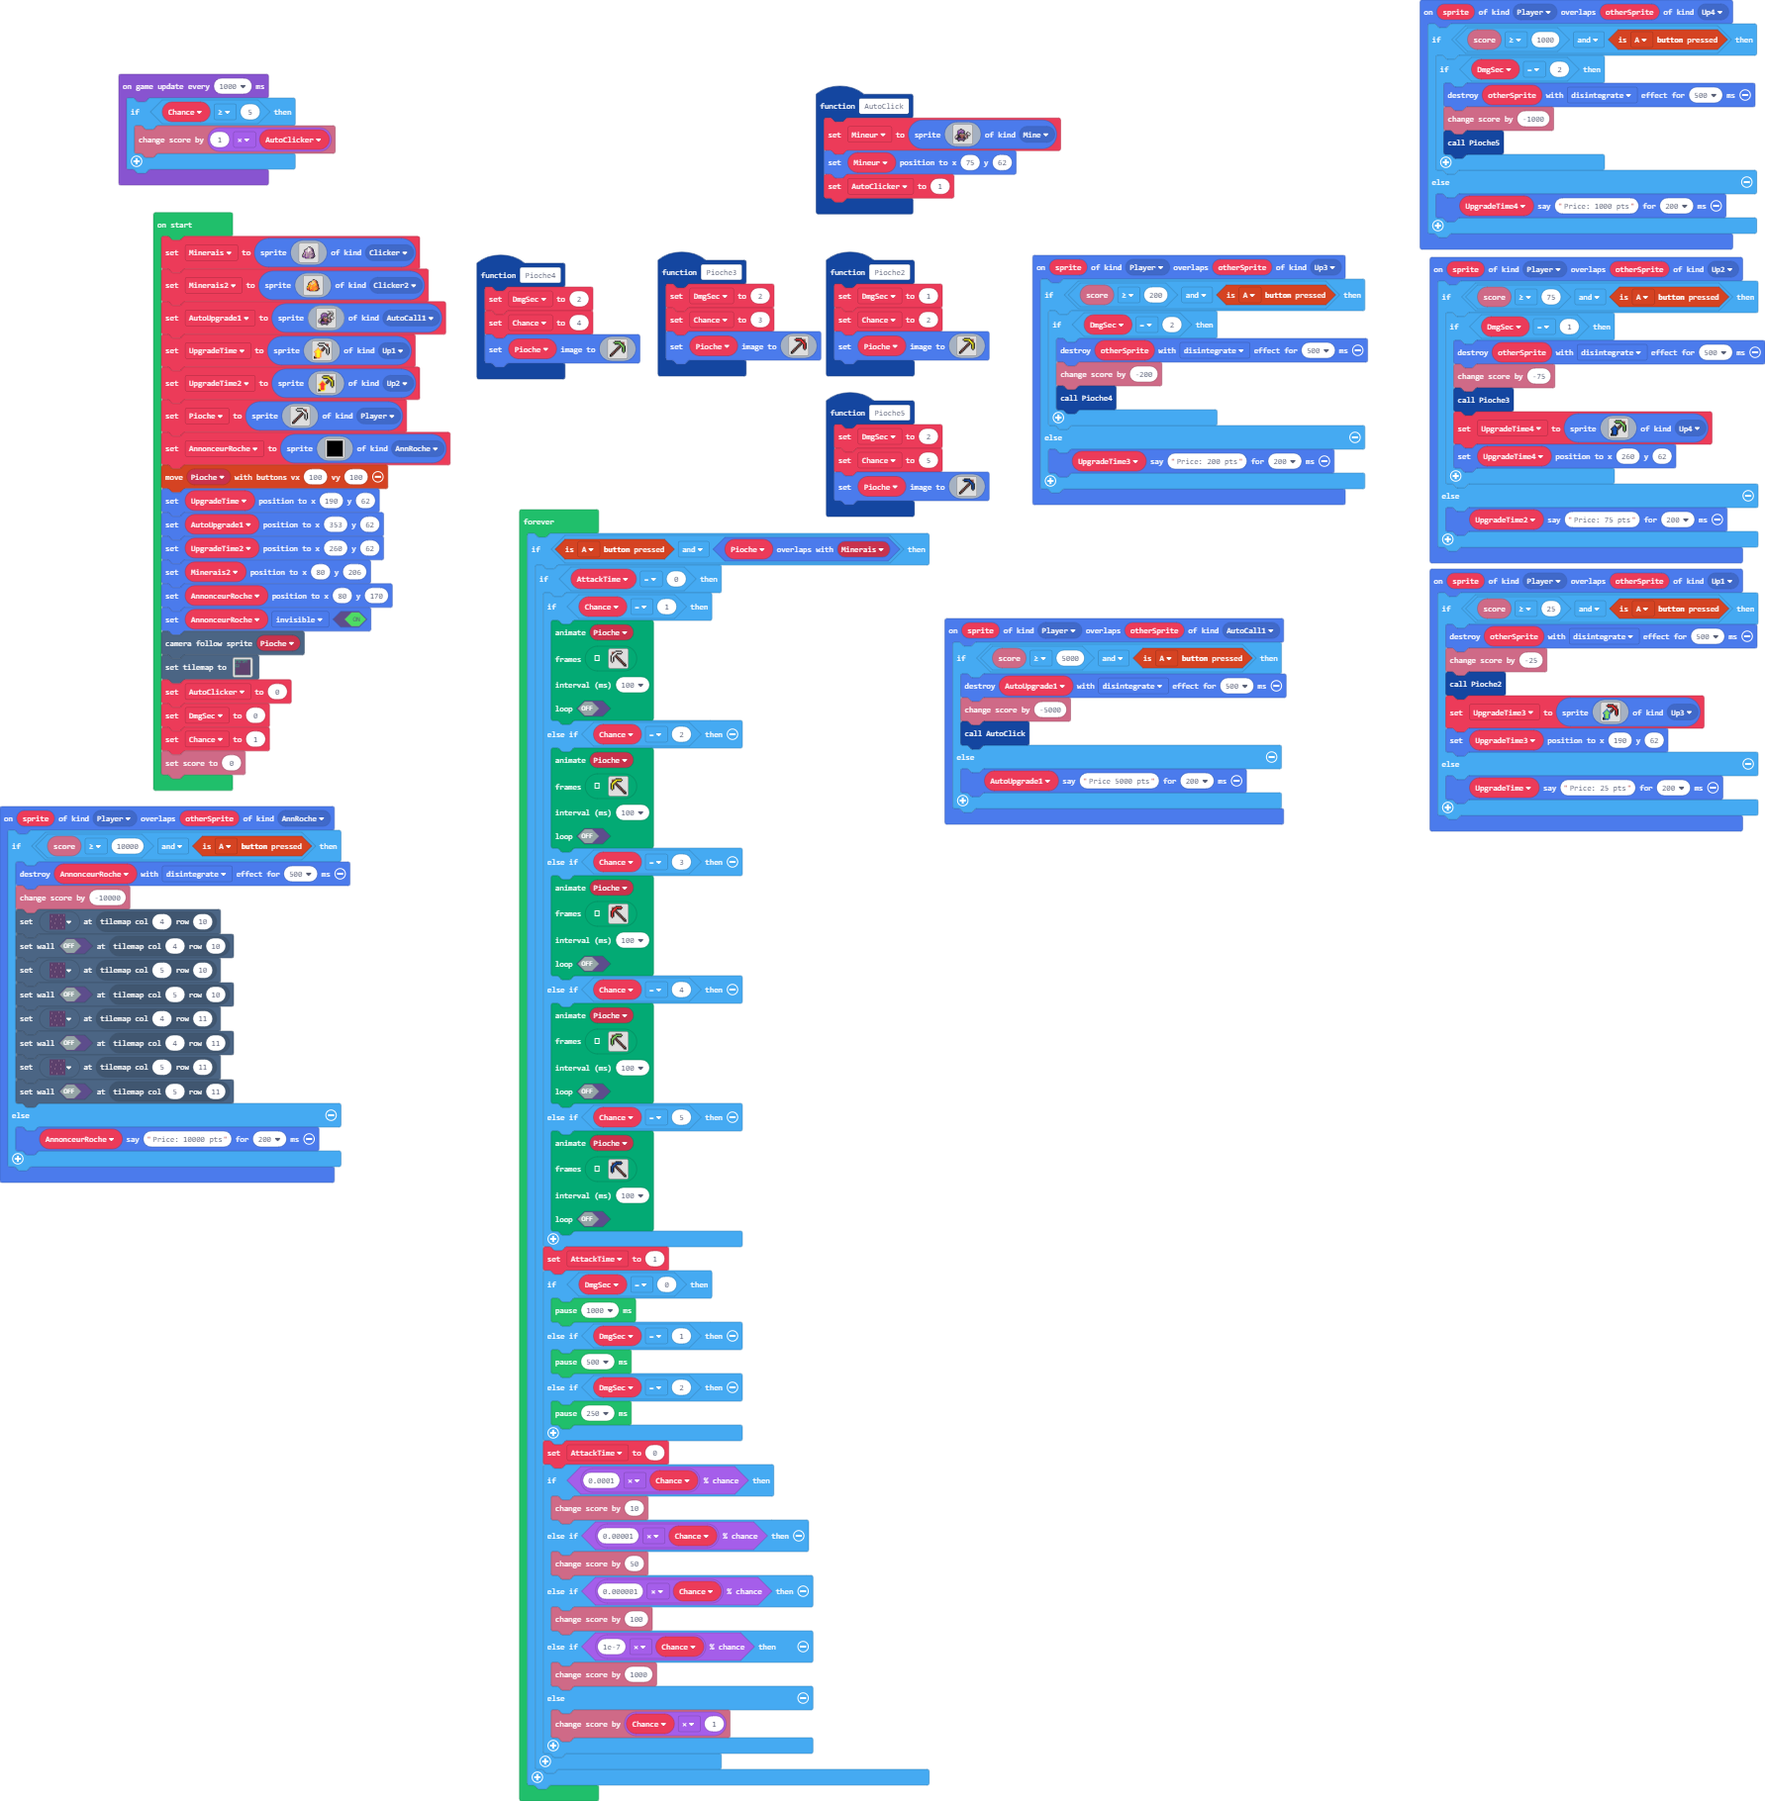
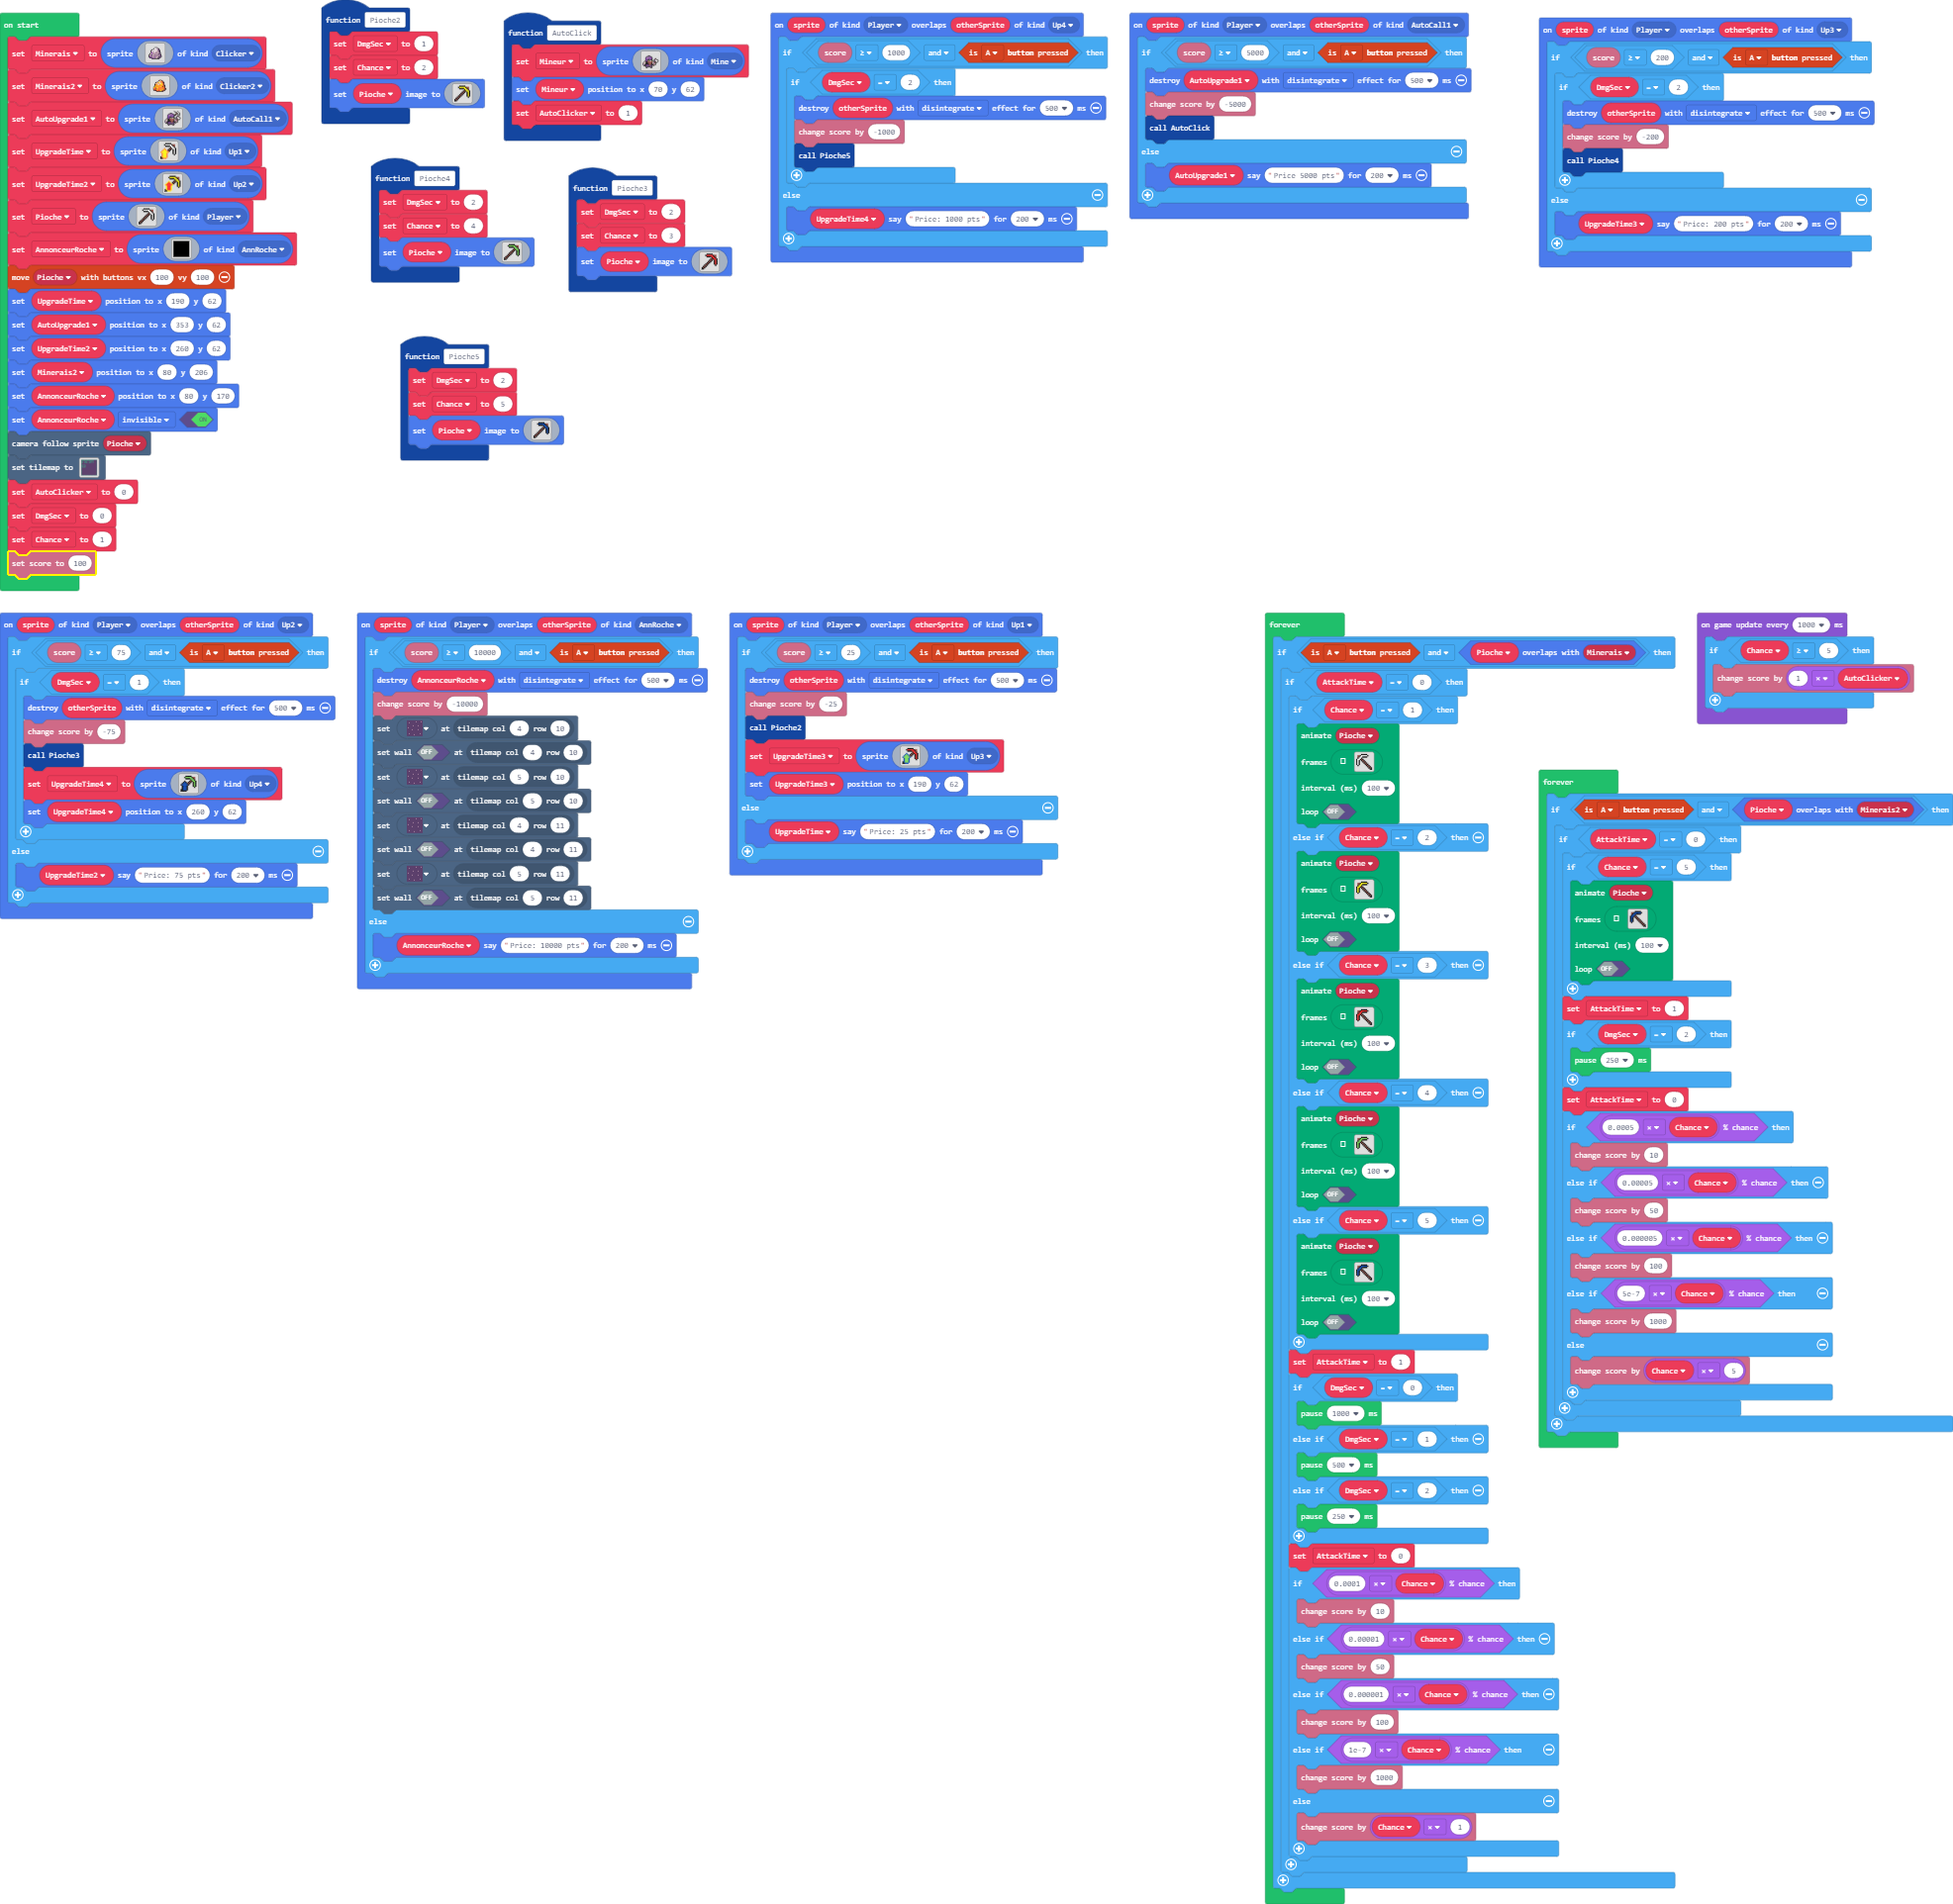
Update main.blocks, main.ts

diff --git a/main.ts b/main.ts
@@ -74,29 +74,28 @@ f d d f f a a a a c e e c a f f e f f . . . . .
 . . . . f c c f f f f f c c f . . . . . . . . . 
 . . . . . f f . . . . . f f . . . . . . . . . . 
 `, SpriteKind.Mine)
-    Mineur.setPosition(75, 62)
+    Mineur.setPosition(70, 62)
     AutoClicker = 1
 }
-sprites.onOverlap(SpriteKind.Player, SpriteKind.Up4, function (sprite, otherSprite) {
-    if (info.score() >= 1000 && controller.A.isPressed()) {
-        if (DmgSec == 2) {
-            otherSprite.destroy(effects.disintegrate, 500)
-            info.changeScoreBy(-1000)
-            Pioche5()
-        }
-    } else {
-        UpgradeTime4.say("Price: 1000 pts", 200)
-    }
-})
-sprites.onOverlap(SpriteKind.Player, SpriteKind.AutoCall1, function (sprite, otherSprite) {
-    if (info.score() >= 5000 && controller.A.isPressed()) {
-        AutoUpgrade1.destroy(effects.disintegrate, 500)
-        info.changeScoreBy(-5000)
-        AutoClick()
-    } else {
-        AutoUpgrade1.say("Price 5000 pts", 200)
-    }
-})
+function Pioche4 () {
+    DmgSec = 2
+    Chance = 4
+    Pioche.setImage(img`
+. . . . f f f f f . . . . 
+. . . f 7 7 7 7 7 f e e . 
+. . . . f f f f 7 7 f e . 
+. . . . . . . . f 7 7 f . 
+. . . . . . . f e f 7 7 f 
+. . . . . . f e f . f 7 f 
+. . . . . f e f . . f 7 f 
+. . . . f e f . . . f 7 f 
+. . . f e f . . . . f 7 f 
+. . f e f . . . . . . f . 
+. f e f . . . . . . . . . 
+f e f . . . . . . . . . . 
+f f . . . . . . . . . . . 
+`)
+}
 function Pioche3 () {
     DmgSec = 2
     Chance = 3
@@ -135,6 +134,26 @@ f e f . . . . . . . . . .
 f f . . . . . . . . . . . 
 `)
 }
+sprites.onOverlap(SpriteKind.Player, SpriteKind.Up4, function (sprite, otherSprite) {
+    if (info.score() >= 1000 && controller.A.isPressed()) {
+        if (DmgSec == 2) {
+            otherSprite.destroy(effects.disintegrate, 500)
+            info.changeScoreBy(-1000)
+            Pioche5()
+        }
+    } else {
+        UpgradeTime4.say("Price: 1000 pts", 200)
+    }
+})
+sprites.onOverlap(SpriteKind.Player, SpriteKind.AutoCall1, function (sprite, otherSprite) {
+    if (info.score() >= 5000 && controller.A.isPressed()) {
+        AutoUpgrade1.destroy(effects.disintegrate, 500)
+        info.changeScoreBy(-5000)
+        AutoClick()
+    } else {
+        AutoUpgrade1.say("Price 5000 pts", 200)
+    }
+})
 sprites.onOverlap(SpriteKind.Player, SpriteKind.Up3, function (sprite, otherSprite) {
     if (info.score() >= 200 && controller.A.isPressed()) {
         if (DmgSec == 2) {
@@ -214,25 +233,6 @@ f f 8 8 8 . . . . . . . .
         UpgradeTime.say("Price: 25 pts", 200)
     }
 })
-function Pioche4 () {
-    DmgSec = 2
-    Chance = 4
-    Pioche.setImage(img`
-. . . . f f f f f . . . . 
-. . . f 7 7 7 7 7 f e e . 
-. . . . f f f f 7 7 f e . 
-. . . . . . . . f 7 7 f . 
-. . . . . . . f e f 7 7 f 
-. . . . . . f e f . f 7 f 
-. . . . . f e f . . f 7 f 
-. . . . f e f . . . f 7 f 
-. . . f e f . . . . f 7 f 
-. . f e f . . . . . . f . 
-. f e f . . . . . . . . . 
-f e f . . . . . . . . . . 
-f f . . . . . . . . . . . 
-`)
-}
 let AttackTime = 0
 let UpgradeTime3: Sprite = null
 let UpgradeTime4: Sprite = null
@@ -466,7 +466,7 @@ tiles.setTilemap(tiles.createTilemap(
 AutoClicker = 0
 DmgSec = 0
 Chance = 1
-info.setScore(0)
+info.setScore(100)
 forever(function () {
     if (controller.A.isPressed() && Pioche.overlapsWith(Minerais)) {
         if (AttackTime == 0) {
@@ -665,6 +665,64 @@ f f . . . . . . . . . . .
                 info.changeScoreBy(1000)
             } else {
                 info.changeScoreBy(Chance * 1)
+            }
+        }
+    }
+})
+forever(function () {
+    if (controller.A.isPressed() && Pioche.overlapsWith(Minerais2)) {
+        if (AttackTime == 0) {
+            if (Chance == 5) {
+                animation.runImageAnimation(
+                Pioche,
+                [img`
+. . . . f f f f f . . . . 
+. e e f 8 8 8 8 8 f . . . 
+. e f 8 8 f f f f . . . . 
+. f 8 8 f . . . . . . . . 
+f 8 8 f e f . . . . . . . 
+f 8 f . f e f . . . . . . 
+f 8 f . . f e f . . . . . 
+f 8 f . . . f e f . . . . 
+f 8 f . . . . f e f . . . 
+. f . . . . . . f e f . . 
+. . . . . . . . . f e f . 
+. . . . . . . . . . f e f 
+. . . . . . . . . . . f f 
+`,img`
+. . . . f f f f f . . . . 
+. . . f 8 8 8 8 8 f e e . 
+. . . . f f f f 8 8 f e . 
+. . . . . . . . f 8 8 f . 
+. . . . . . . f e f 8 8 f 
+. . . . . . f e f . f 8 f 
+. . . . . f e f . . f 8 f 
+. . . . f e f . . . f 8 f 
+. . . f e f . . . . f 8 f 
+. . f e f . . . . . . f . 
+. f e f . . . . . . . . . 
+f e f . . . . . . . . . . 
+f f . . . . . . . . . . . 
+`],
+                100,
+                false
+                )
+            }
+            AttackTime = 1
+            if (DmgSec == 2) {
+                pause(250)
+            }
+            AttackTime = 0
+            if (Math.percentChance(0.0005 * Chance)) {
+                info.changeScoreBy(10)
+            } else if (Math.percentChance(0.00005 * Chance)) {
+                info.changeScoreBy(50)
+            } else if (Math.percentChance(0.000005 * Chance)) {
+                info.changeScoreBy(100)
+            } else if (Math.percentChance(5e-7 * Chance)) {
+                info.changeScoreBy(1000)
+            } else {
+                info.changeScoreBy(Chance * 5)
             }
         }
     }
